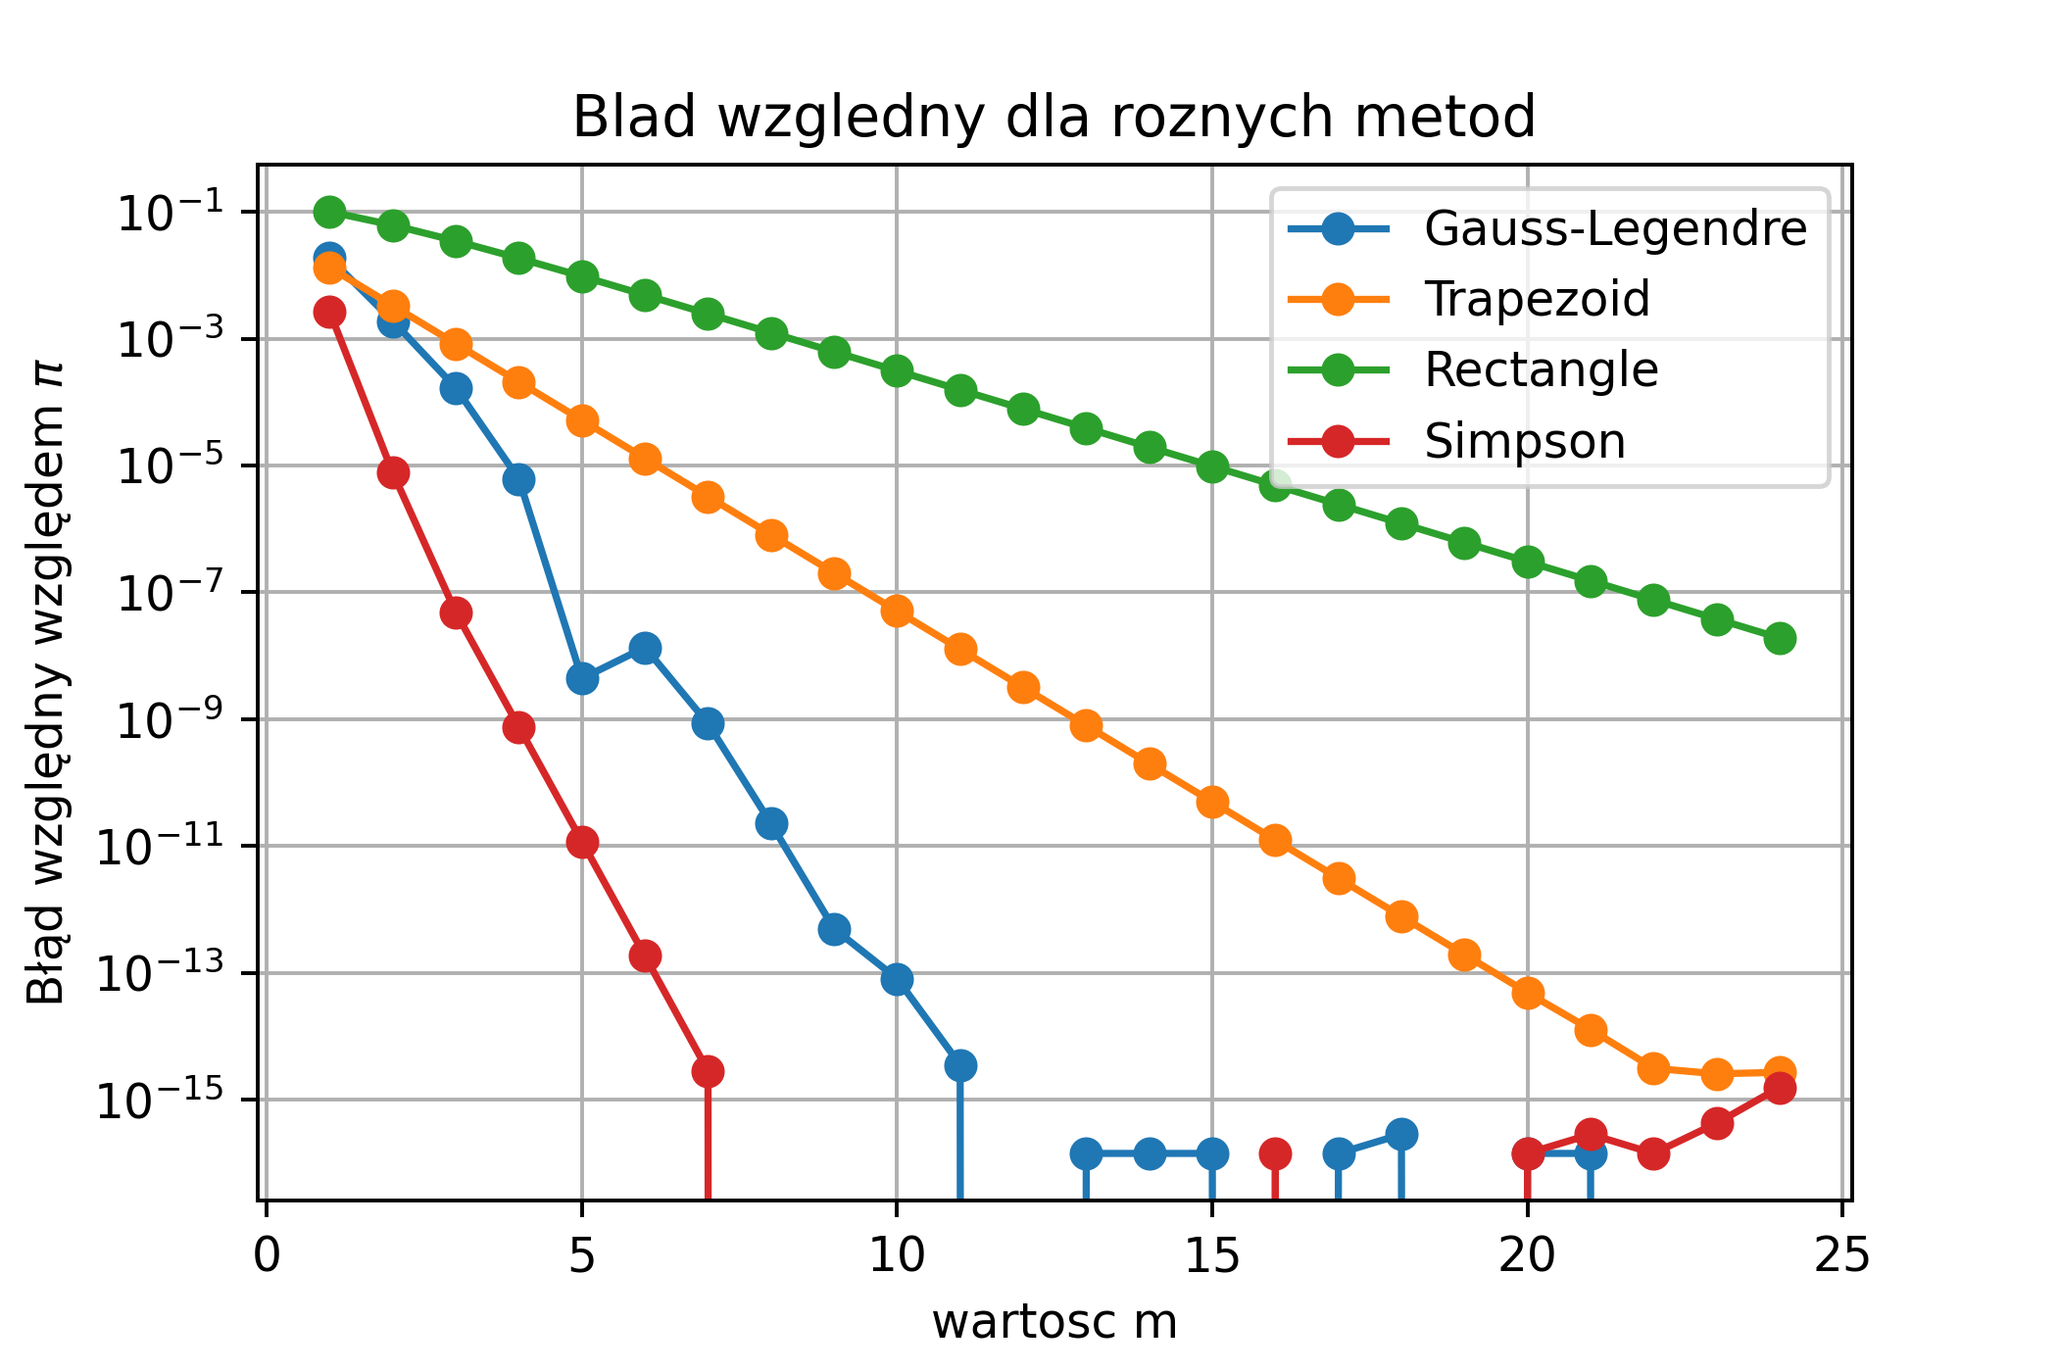
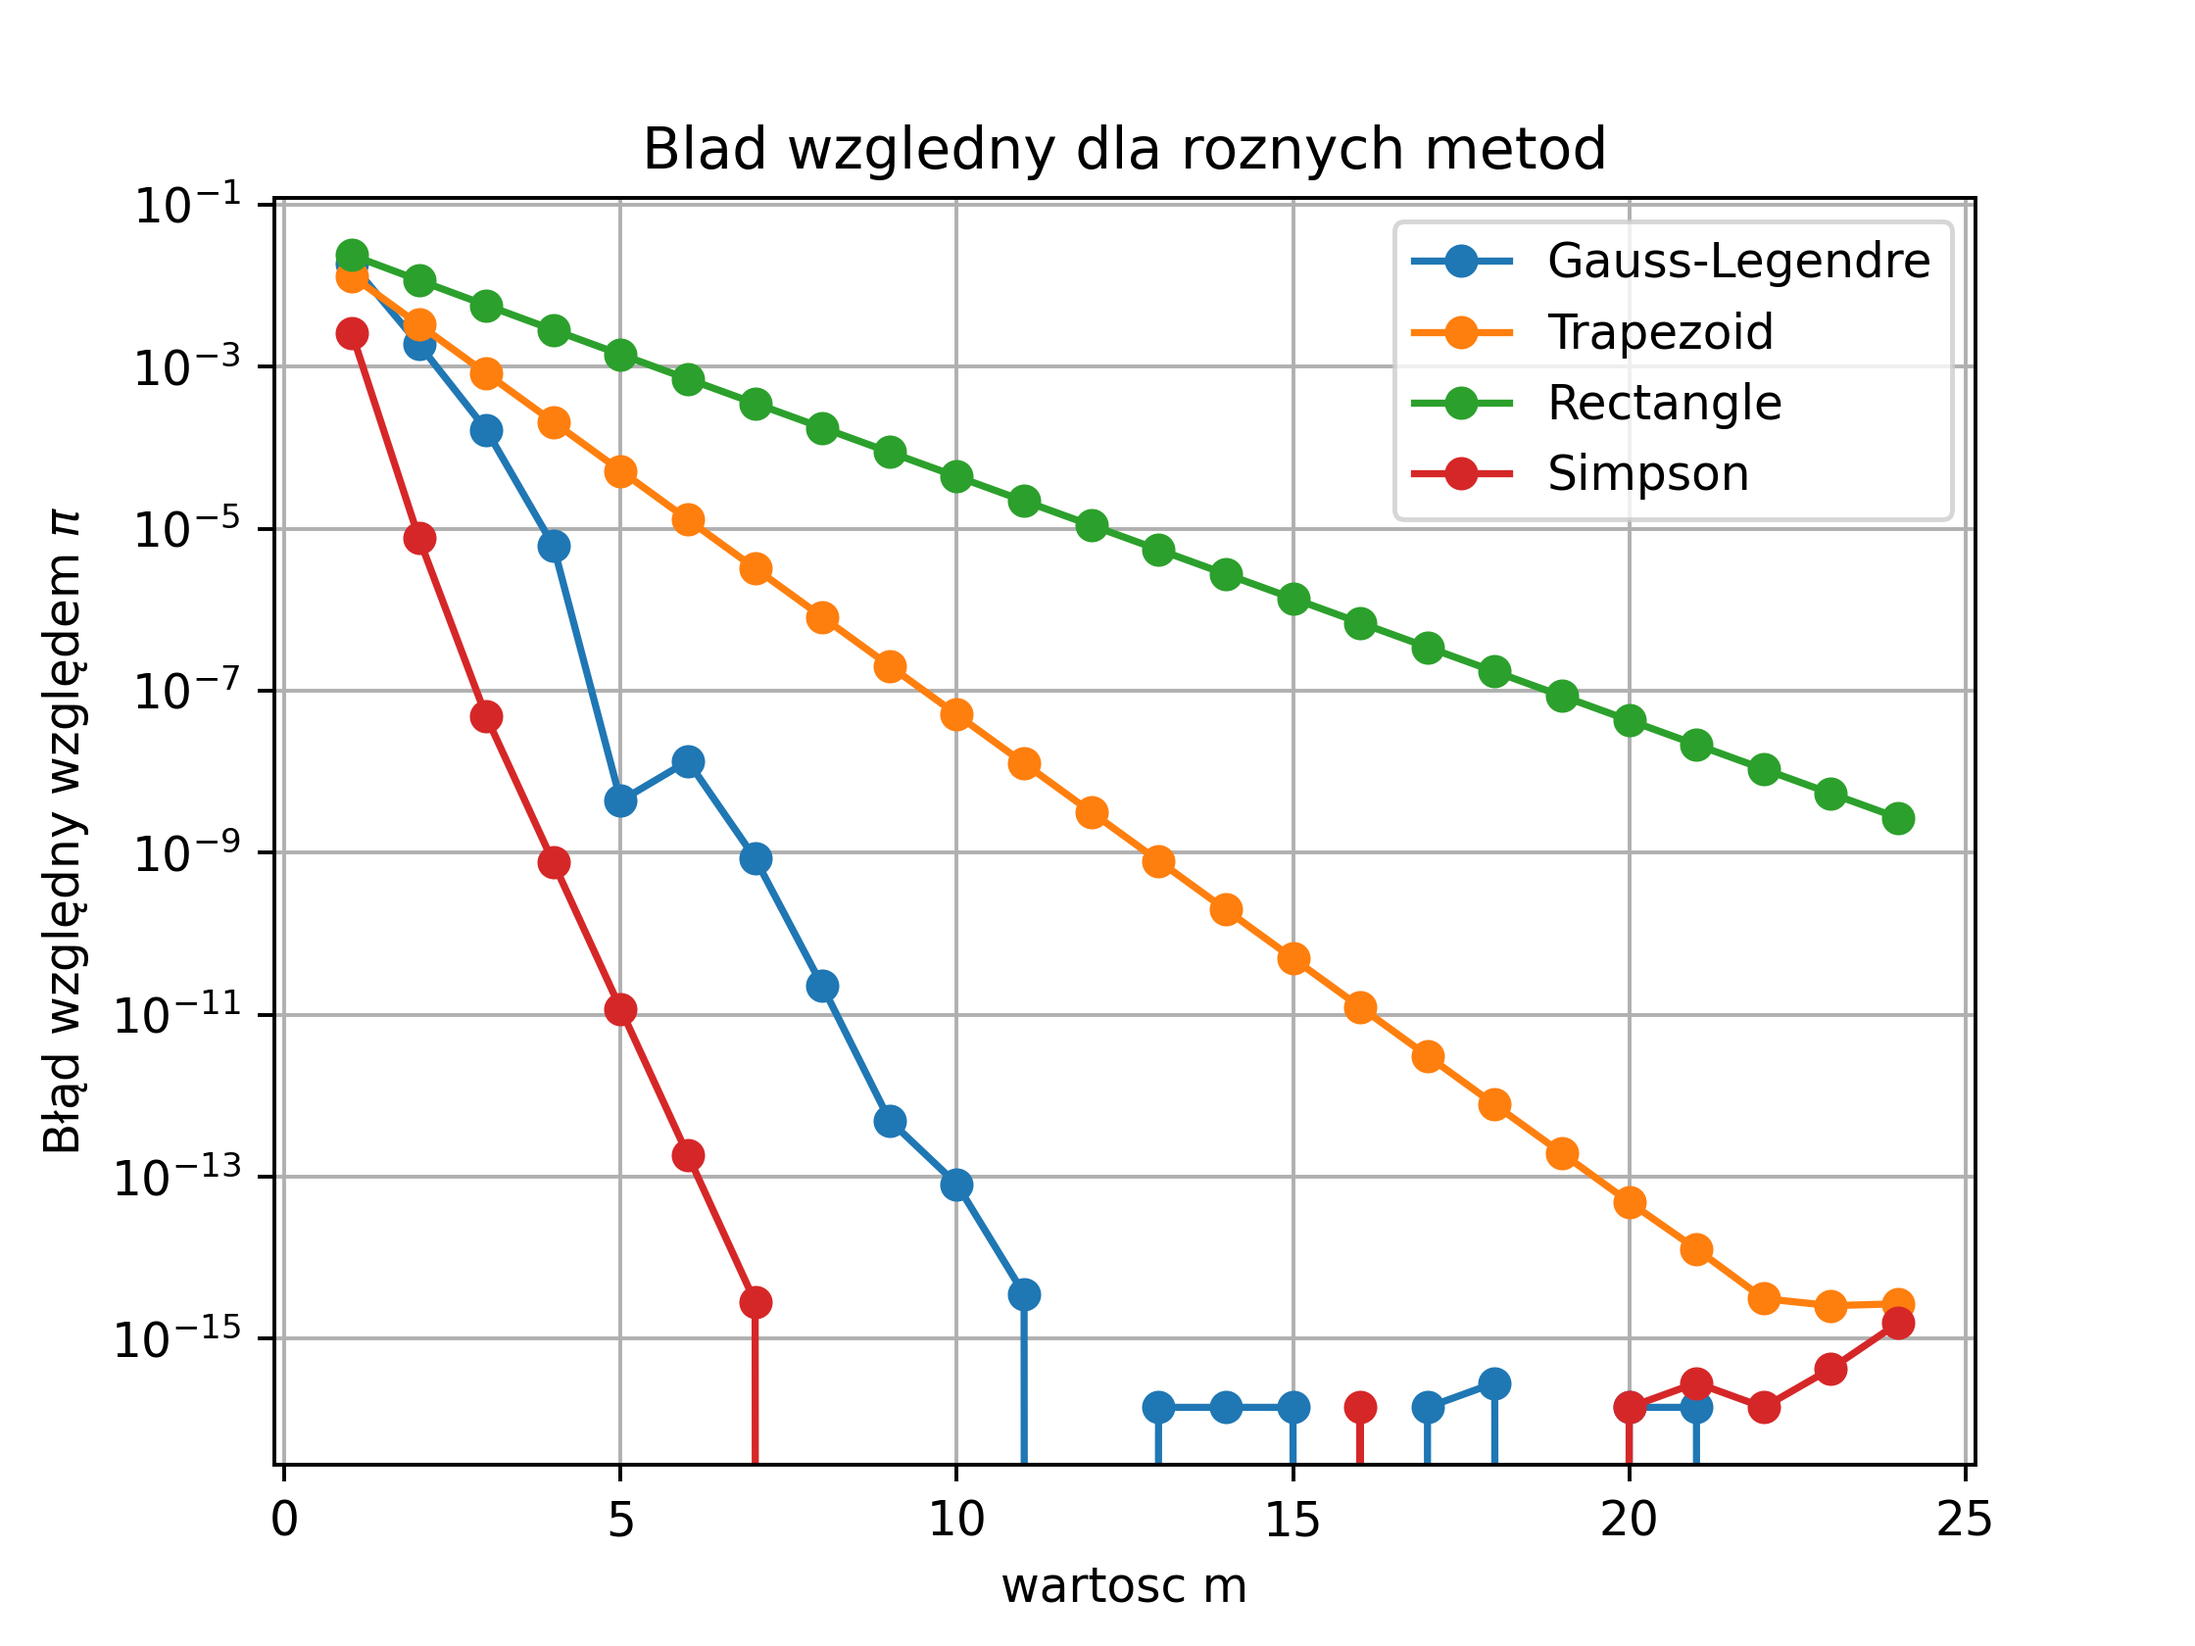
lab

diff --git a/lab8/Lukasz-Stepien-laboratorium-8-kod.py b/lab8/Lukasz-Stepien-laboratorium-8-kod.py
@@ -65,7 +65,7 @@ plt.legend(fontsize='large')
 plt.title("Błąd względny w każdej iteracji dla wszystkich funkcji g")
 plt.xlabel('Liczba iteracji i')
 plt.ylabel('Błąd względny')
-plt.savefig(f"pictures/Błąd względny w każdej iteracji dla wszystkich funkcji g", dpi=350)
+#plt.savefig(f"pictures/Błąd względny w każdej iteracji dla wszystkich funkcji g", dpi=350)
 plt.show()
 
 plt.semilogy(t2,'-o', label=r'$g2(x)=\sqrt{3x-2}$')
@@ -75,7 +75,7 @@ plt.legend(fontsize='large')
 plt.title("Błąd względny w każdej iteracji dla zbieżnych funkcji g ")
 plt.xlabel('Liczba iteracji i')
 plt.ylabel('Błąd względny')
-plt.savefig(f"pictures/Błąd względny w każdej iteracji dla zbieżnych funkcji g", dpi=350)
+#plt.savefig(f"pictures/Błąd względny w każdej iteracji dla zbieżnych funkcji g", dpi=350)
 
 plt.show()
 

diff --git a/lab6/Lukasz-Stepien-laboratorium-6-kod.py b/lab6/Lukasz-Stepien-laboratorium-6-kod.py
@@ -24,8 +24,8 @@ for m in range(1,25):
     num_nodes.append(m)
 
     # Metoda złożonych prostokątów
-    x_rect = np.linspace(a, b, n+1)
-    result_rect = np.sum(f(x_rect[:-1]) * (b-a)/n)
+    x_rect = np.linspace(a, b, n)
+    result_rect = np.sum(f(x_rect) * (b-a)/n)
     error_rect = np.abs((result_rect - np.pi)/np.pi)
     errors_rectangle.append(error_rect)
 
@@ -92,7 +92,7 @@ plt.ylabel('Błąd względny względem $\pi$')
 plt.yscale('log')
 plt.legend()
 plt.grid(True)
-plt.savefig("pictures/Blad wzgledny dla roznych metod", dpi=350)
+plt.savefig("lab6/pictures/Blad wzgledny dla roznych metod", dpi=350)
 
 plt.show()
 
